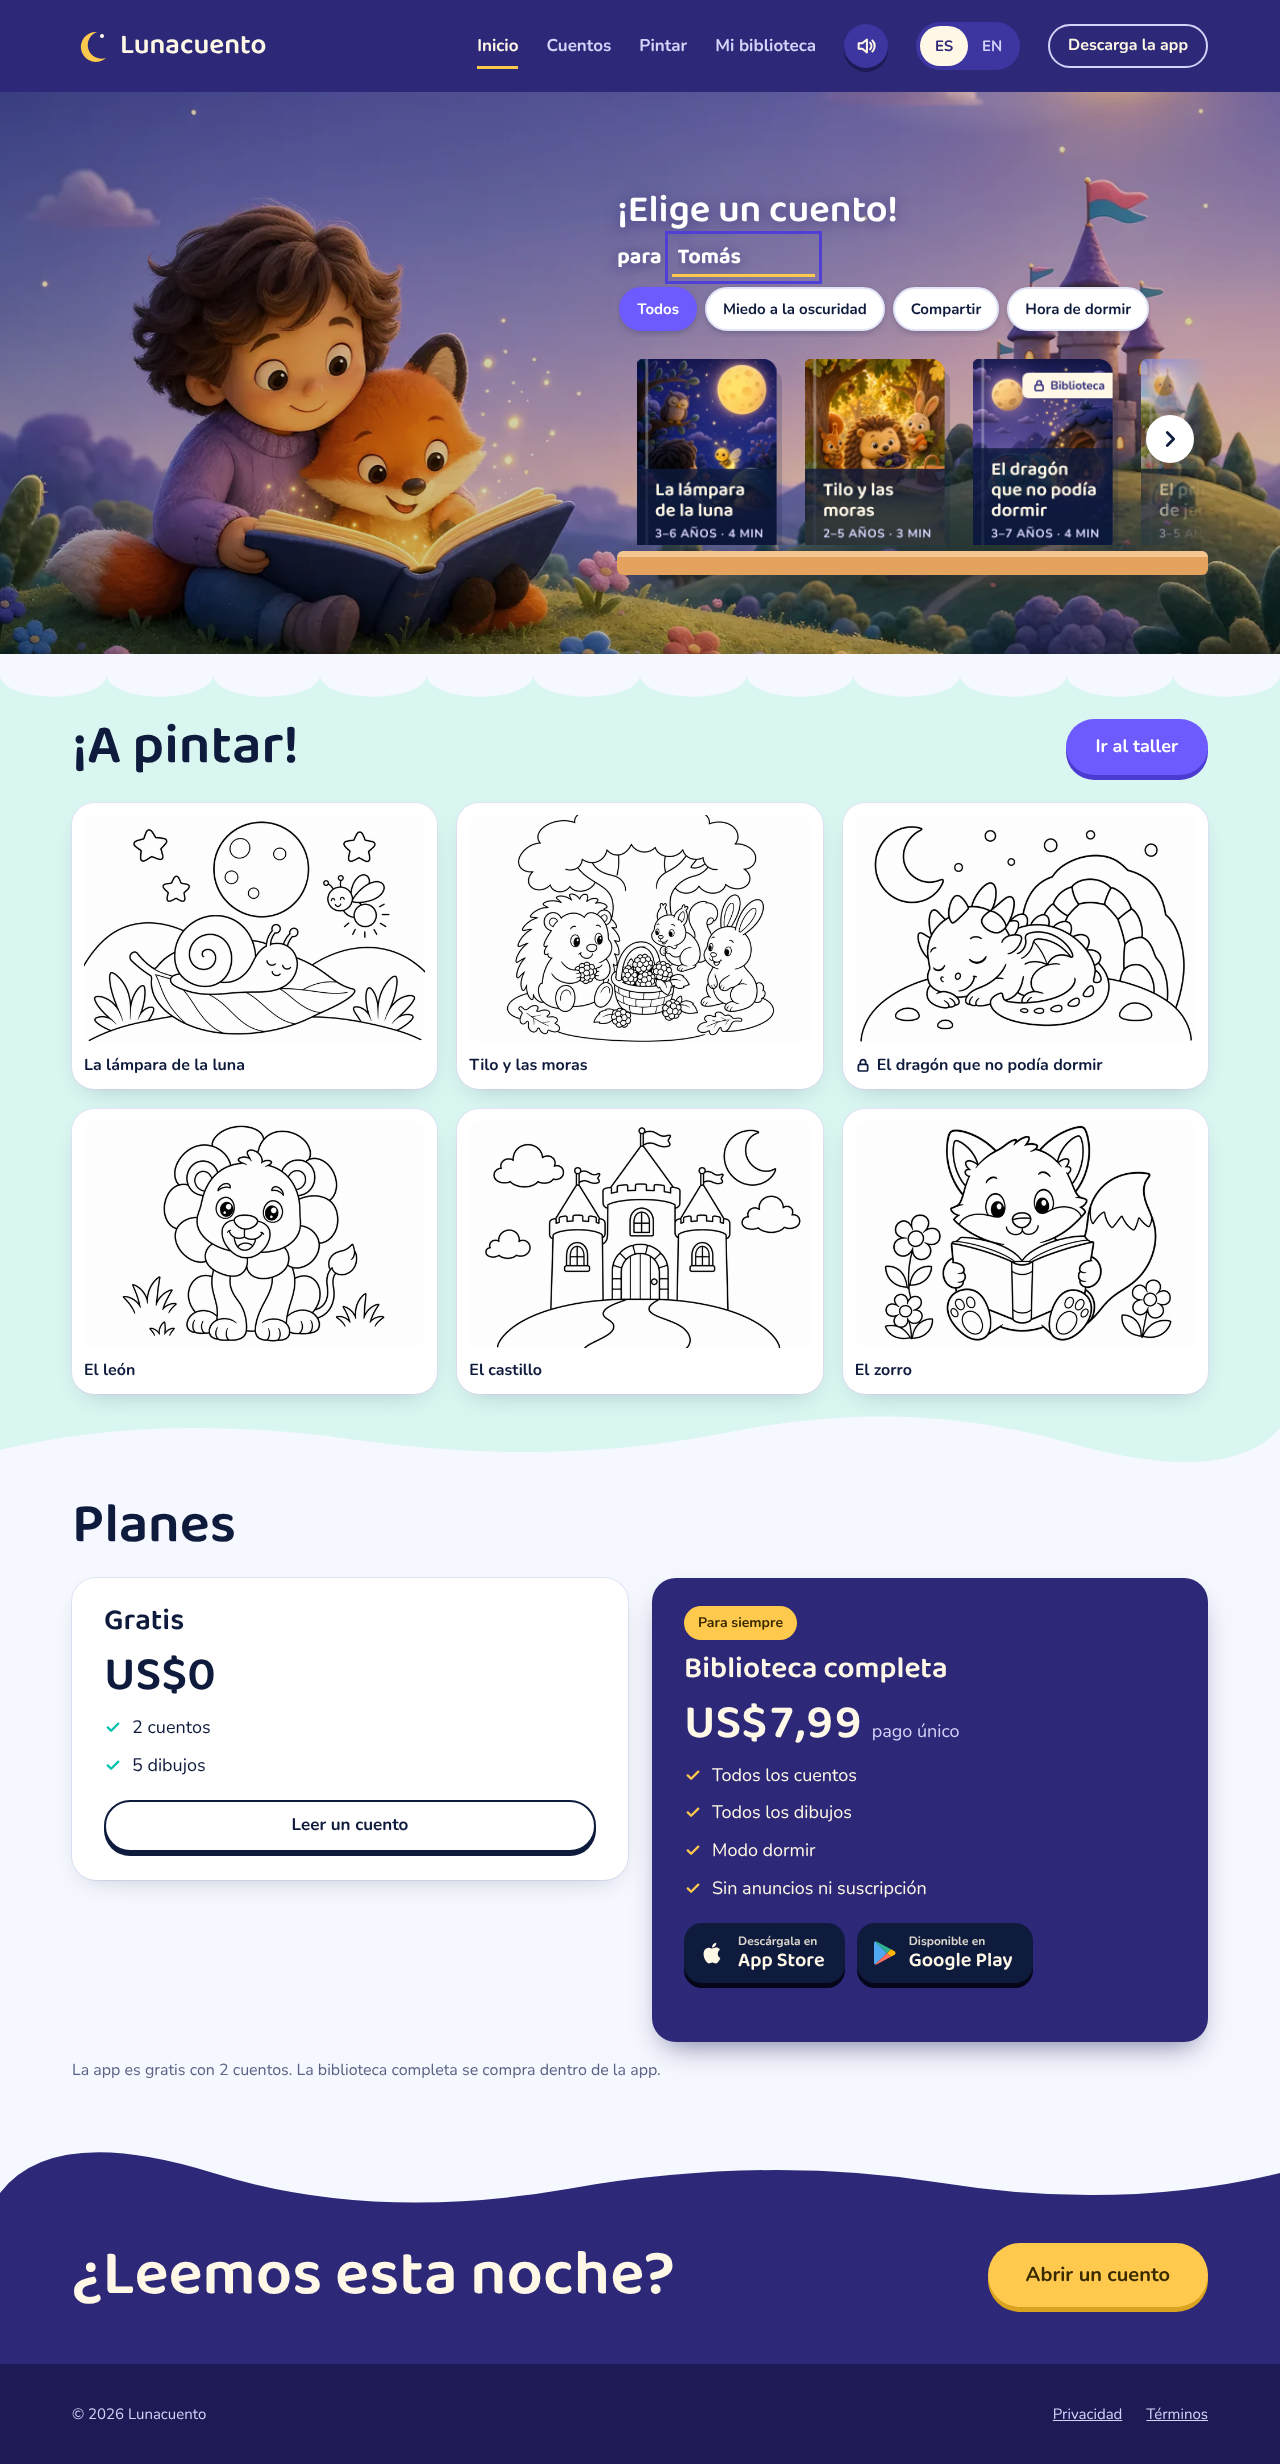
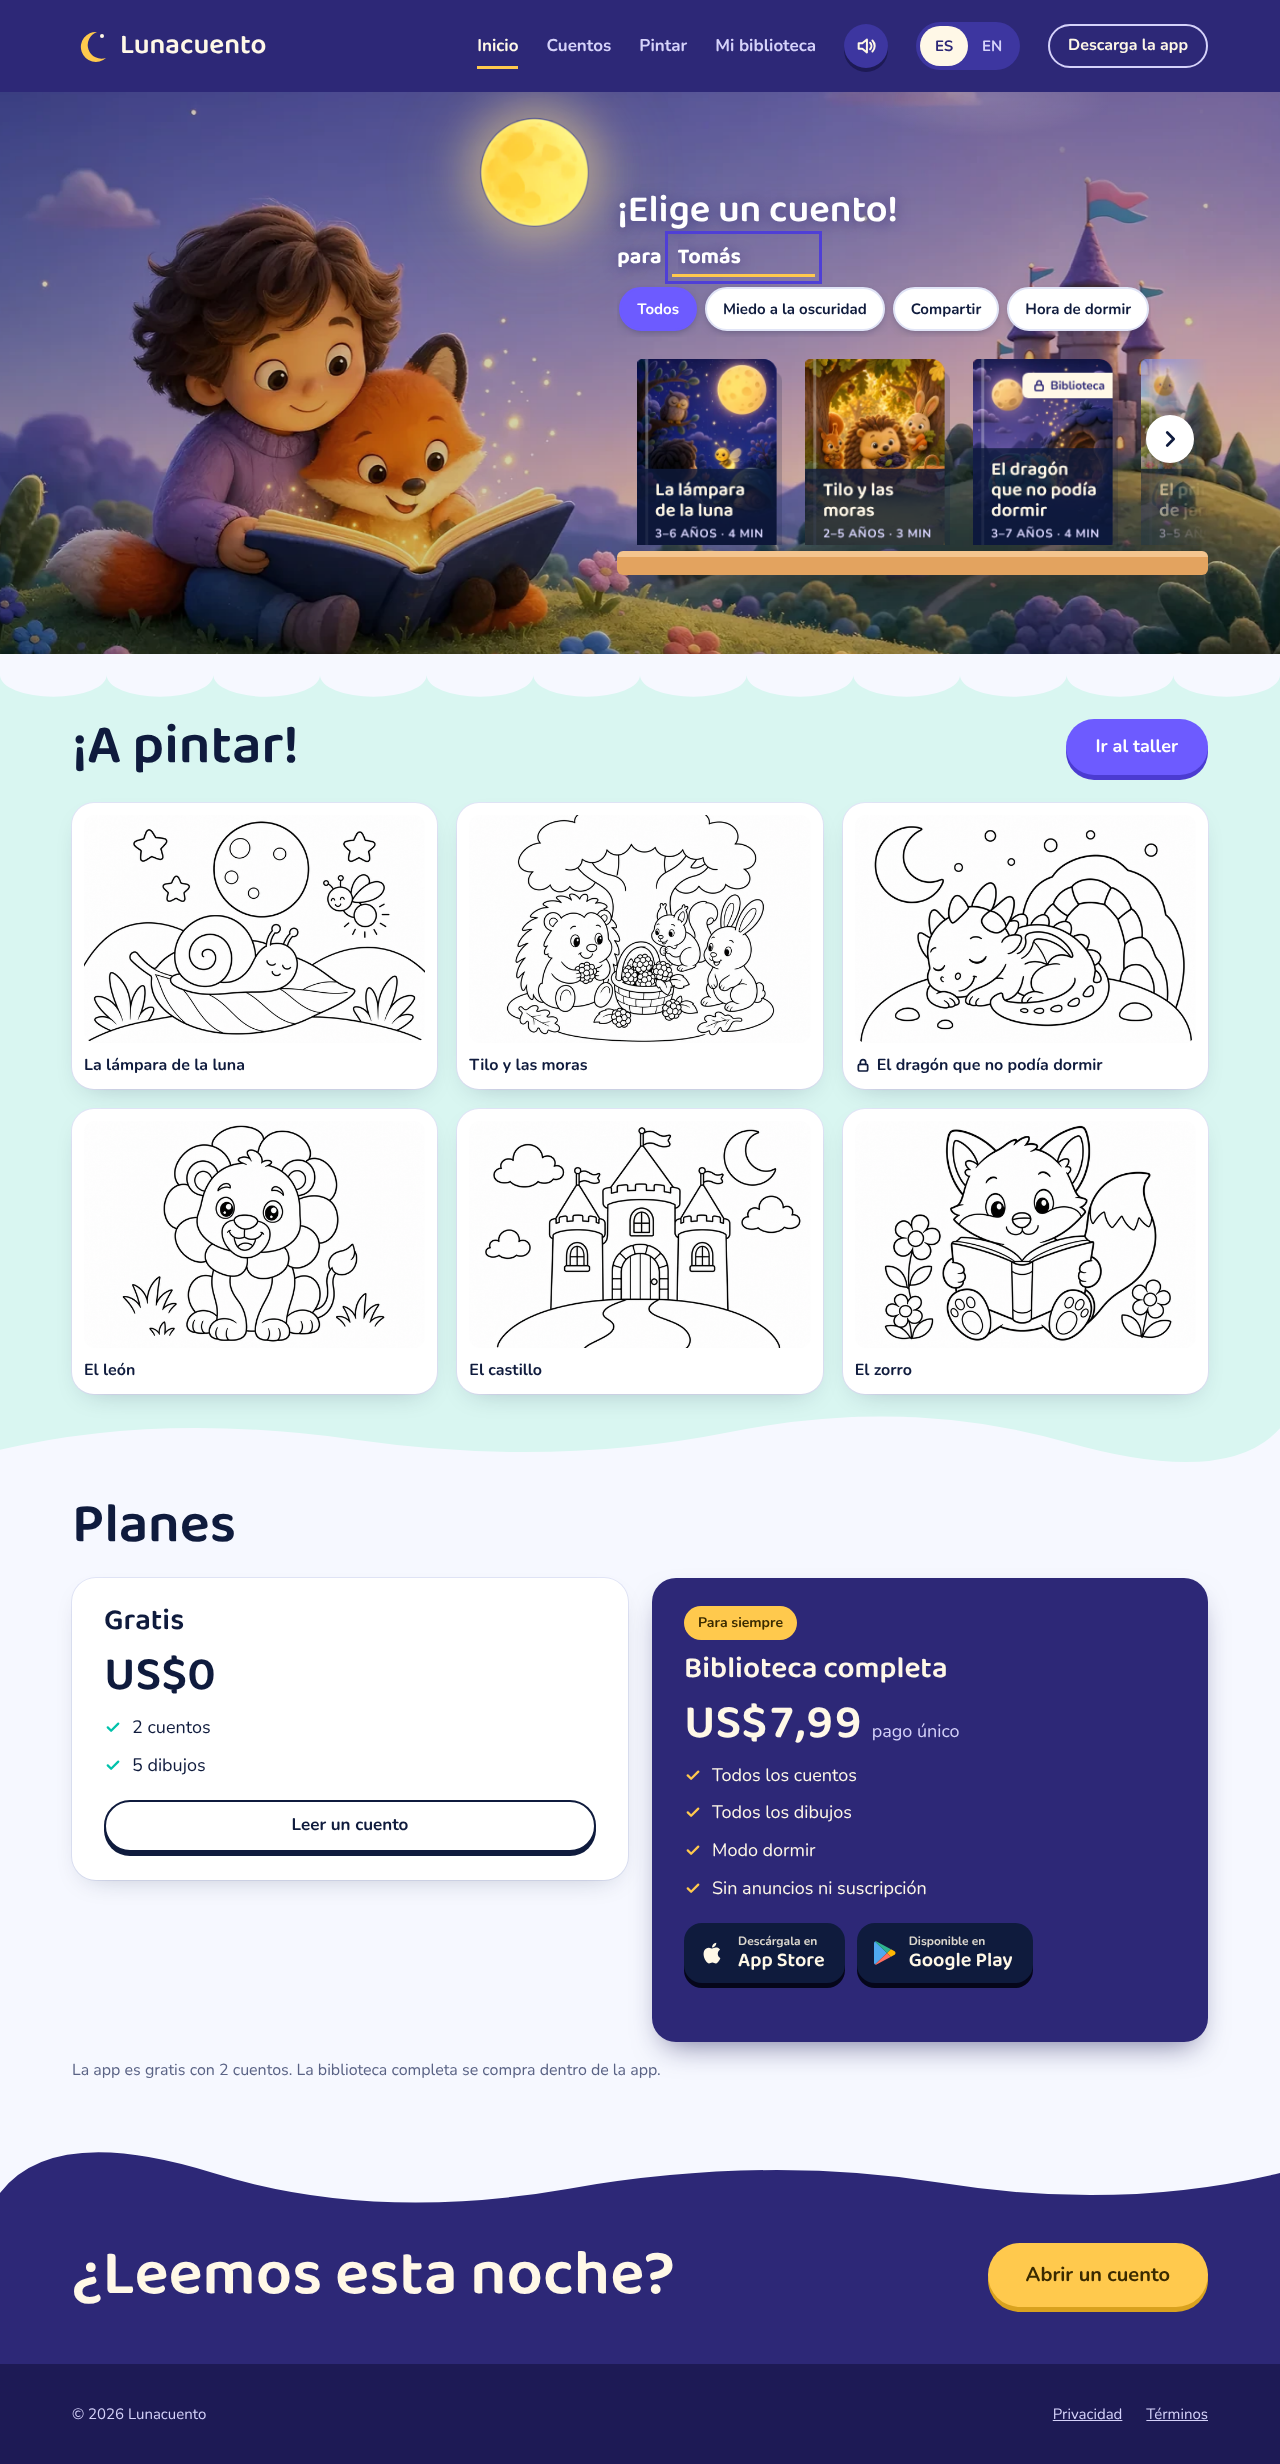
Hero: la luna pasa a ser un sprite aparte, siempre entera junto al niño y sin tapar texto ni estante
Claude-Session: https://claude.ai/code/session_01NsKeDMnxH8TrdVoQXG24KL

Changed region(s): [[0.3438, 0.0312, 0.5, 0.125], [0.8125, 0.0312, 0.9375, 0.0938]]

diff --git a/src/app/globals.css b/src/app/globals.css
@@ -211,7 +211,7 @@ a.bk:active { transform: translateY(-6px) rotate(-1deg); }
 .palette { display: grid; grid-template-columns: repeat(4, minmax(0, 1fr)); gap: 14px; justify-items: center; }
 .sw { width: 56px; height: 56px; border-radius: 50%; border: 4px solid #FFFFFF; box-shadow: 0 0 0 2px var(--line); padding: 0; transition: transform .15s var(--ease); }
 .sw:active { transform: scale(.94); }
-.sw[aria-pressed="true"] { box-shadow: 0 0 0 4px var(--ink); transform: scale(1.06); }
+.sw[aria-pressed="true"] { box-shadow: 0 0 0 4px var(--ink); transform: scale(1.1); }
 
 /* Planes */
 .plans { margin-top: 24px; display: grid; grid-template-columns: repeat(2, minmax(0, 1fr)); gap: 24px; align-items: start; }
@@ -560,17 +560,18 @@ html[data-native] input { -webkit-user-select: text; user-select: text; }
 
 /* =====================================================================
    Hero de escritorio y tablet: título, filtros y estante sobre la ilustración
-   La ilustración (3:2) cubre todo el ancho (se encuadra sin cortar la luna: o se ve entera o queda fuera del todo) (a sangre, sin fundidos ni viñeta) y se encuadra para que se vean el niño, el zorro
+   La ilustración (3:2) cubre todo el ancho (la luna es un sprite aparte, `.stage-moon`, que siempre se ve entera) (a sangre, sin fundidos ni viñeta) y se encuadra para que se vean el niño, el zorro
    y el castillo; nunca se estira. El texto y el estante empiezan en --stage-left y el bloque va centrado en vertical.
    ===================================================================== */
-.hstage { --stage-left: 48%; --stage-h: clamp(540px, 44vw, 620px); --pw: max(100cqw, calc(var(--stage-h) * 1.5)); --ph: calc(var(--pw) / 1.5); --stage-shadow: 0 2px 14px rgba(45, 40, 119, .6); position: relative; overflow: hidden; container-type: inline-size; background: #5F64B3; color: #FFFFFF; height: var(--stage-h); display: flex; }
+.hstage { --stage-left-n: .48; --stage-left: calc(var(--stage-left-n) * 100%); --stage-h: clamp(540px, 44vw, 620px); --pw: max(100cqw, calc(var(--stage-h) * 1.5)); --ph: calc(var(--pw) / 1.5); --stage-shadow: 0 2px 14px rgba(45, 40, 119, .6); position: relative; overflow: hidden; container-type: inline-size; background: #5F64B3; color: #FFFFFF; height: var(--stage-h); display: flex; }
 .stage-art { position: absolute; inset: 0; }
-.stage-pic { position: absolute; left: 50%; top: max(calc(var(--stage-h) - var(--ph)), min(calc(var(--ph) * -.27), calc((var(--ph) - var(--stage-h)) * -.8))); width: var(--pw); aspect-ratio: 3 / 2; transform: translateX(-50%); }
+.stage-pic { position: absolute; left: 50%; top: calc((var(--stage-h) - var(--ph)) * .8); width: var(--pw); aspect-ratio: 3 / 2; transform: translateX(-50%); }
 .pic-img { position: absolute; inset: 0; }
 .stage-img, .stage-fallback { width: 100%; height: 100%; object-fit: cover; display: block; transform: translate3d(calc(var(--mx, 0) * -4px), calc(var(--my, 0) * -3px), 0) scale(1.03); }
 /* Capas de parallax: cada una con su profundidad (--d) */
 .px { position: absolute; pointer-events: none; will-change: transform; transform: translate3d(calc(var(--mx, 0) * var(--d) * 14px), calc(var(--my, 0) * var(--d) * 8px + var(--sy, 0) * var(--d) * 26px), 0); }
-.px-moon { --d: .5; left: 78%; top: 3%; width: 17%; aspect-ratio: 1; border-radius: 50%; background: radial-gradient(circle, rgba(255, 224, 138, .5) 0, rgba(255, 224, 138, .18) 45%, transparent 70%); animation: moon-glow 5.5s ease-in-out infinite; }
+.stage-moon { --d: .5; left: calc(var(--gutter) + (100% - 2 * var(--gutter)) * var(--stage-left-n) - var(--moon) - 28px); top: 5%; width: var(--moon); height: var(--moon); --moon: clamp(84px, 8.5vw, 132px); border-radius: 50%; box-shadow: 0 0 40px 14px rgba(255, 224, 138, .42), 0 0 90px 30px rgba(255, 224, 138, .18); animation: moon-glow 5.5s ease-in-out infinite; }
+.stage-moon img { width: 100%; height: 100%; display: block; border-radius: 50%; filter: saturate(1.12) brightness(1.08); transform: scale(1.1); }
 .px-cloud { --d: 1.1; height: 9%; background: radial-gradient(ellipse at center, rgba(255, 240, 255, .2) 0, rgba(255, 240, 255, .08) 50%, transparent 72%); animation: cloud-drift 60s linear infinite; }
 .px-cloud.c1 { left: -12%; top: 12%; width: 22%; animation-duration: 90s; }
 .px-cloud.c2 { left: 30%; top: 5%; width: 18%; --d: .8; animation-duration: 120s; animation-delay: -40s; }
@@ -677,3 +678,6 @@ a.bk:hover::after, a.bk:focus-visible::after, a.bk:active::after { opacity: .95;
 /* Tablet: el encabezado con el botón de sonido no debe desbordar */
 @media (min-width: 761px) and (max-width: 1000px) { .site-header .bar { gap: 14px; } .navlinks { gap: 16px; font-size: 16px; } }
 
+
+/* Pantallas muy anchas: el hero recorta más alto de la imagen; se sube el encuadre para que el pelo del niño no quede cortado */
+@media (min-width: 1700px) { .stage-pic { top: calc((var(--stage-h) - var(--ph)) * .72); } }

diff --git a/src/components/HeroStage.tsx b/src/components/HeroStage.tsx
@@ -5,6 +5,7 @@ import type { Dict, Lang } from "@/lib/i18n";
 import { DEFAULT_NAME } from "@/lib/i18n";
 import { useKidName, setKidName, useRawKidName } from "@/lib/name-store";
 import { COMING_SOON, FILTERS, STORIES, VALUES, VALUES_SHORT, type ValueKey } from "@/lib/stories";
+import { ilu } from "@/lib/ilustraciones";
 import BookCard from "./BookCard";
 import IlluImg from "./IlluImg";
 import { IconNext, IconPrev } from "./icons";
@@ -33,6 +34,9 @@ const SPARKLES: [number, number, number, number][] = [
  * La ilustración vive en una caja centrada de proporción 3:2 y alto fijo (nunca se estira: a la izquierda y a la derecha el cielo
  * continúa con el color de los bordes). Capas de parallax suave (luna, nubes, destellos) con el mouse y el scroll.
  */
+/** La luna es un sprite aparte (luna-hero) para colocarla por CSS, siempre entera y sin tapar al niño ni al texto. */
+const moon = ilu("hero-inicio") ? ilu("luna-hero") : undefined;
+
 export default function HeroStage({ lang, t }: { lang: Lang; t: Dict }) {
   const raw = useRawKidName();
   const name = useKidName(DEFAULT_NAME[lang]);
@@ -96,7 +100,6 @@ export default function HeroStage({ lang, t }: { lang: Lang; t: Dict }) {
           <div className="pic-img">
             <IlluImg name="hero-inicio" sizes="100vw" className="stage-img" fallback={<HeroFallback />} />
           </div>
-          <span className="px px-moon" />
           <span className="px px-cloud c1" />
           <span className="px px-cloud c2" />
           <span className="px px-cloud c3" />
@@ -108,6 +111,12 @@ export default function HeroStage({ lang, t }: { lang: Lang; t: Dict }) {
         </div>
       </div>
       <div className="wrap stage-body">
+        {moon ? (
+          <span className="px stage-moon" aria-hidden="true">
+            {/* eslint-disable-next-line @next/next/no-img-element */}
+            <img src={moon.src} width={moon.width} height={moon.height} alt="" decoding="async" />
+          </span>
+        ) : null}
         <div className="stage-head">
           <h1 id="stage-title">{t.shelf.title}</h1>
           <label className="stage-for" htmlFor="kid-name">

diff --git a/scripts/quitar-luna-hero.py b/scripts/quitar-luna-hero.py
@@ -1,0 +1,85 @@
+#!/usr/bin/env python3
+"""Separa la luna del hero: recorta el disco como sprite (luna-hero.webp) y rellena el cielo donde estaba en
+hero-inicio-*.webp. Así la luna se coloca por CSS (siempre entera, junto al niño) y no depende del recorte de la
+imagen. Operación de una sola vez (sin IA, sin costo): si ya no hay luna en la imagen, no hace nada.
+Uso: python3 scripts/quitar-luna-hero.py"""
+import json, sys
+import numpy as np
+from PIL import Image, ImageDraw, ImageFilter
+
+DIR = "public/ilustraciones"
+SIZES = [768, 1152, 1536, 2304, 3072]
+
+def detect(path):
+    a = np.array(Image.open(path).convert("RGB")).astype(int)
+    H, W, _ = a.shape
+    m = (a[:, :, 0] > 225) & (a[:, :, 1] > 185) & (a[:, :, 2] < 175)
+    m[:, : int(W * 0.7)] = False
+    m[int(H * 0.4):, :] = False
+    ys, xs = np.where(m)
+    if len(xs) < 2000:
+        return None
+    # disco: percentiles para ignorar el borde brillante suelto
+    x0, x1 = np.percentile(xs, [0.5, 99.5]); y0, y1 = np.percentile(ys, [0.5, 99.5])
+    return ((x0 + x1) / 2 / W, (y0 + y1) / 2 / H, (x1 - x0 + y1 - y0) / 4 / W)  # cx, cy (fracción), radio (fracción del ancho)
+
+geo = detect(f"{DIR}/hero-inicio-1536.webp")
+if not geo:
+    print("No se detecta la luna en el hero (ya fue separada). Nada que hacer."); sys.exit(0)
+fx, fy, fr = (float(v) for v in geo)
+print("luna: centro %.3f,%.3f radio %.3f del ancho" % geo)
+
+# 1) sprite desde la variante más grande
+big = Image.open(f"{DIR}/hero-inicio-3072.webp").convert("RGB")
+W, H = big.size
+cx, cy, R = fx * W, fy * H, fr * W
+pad = R * 1.04
+box = (int(cx - pad), int(cy - pad), int(cx + pad), int(cy + pad))
+sp = big.crop(box).convert("RGBA")
+S = sp.size[0]
+mask = Image.new("L", (S * 4, S * 4), 0)
+ImageDraw.Draw(mask).ellipse((S * 4 * 0.055, S * 4 * 0.055, S * 4 * 0.945, S * 4 * 0.945), fill=255)
+mask = mask.resize((S, S), Image.LANCZOS).filter(ImageFilter.GaussianBlur(1.2))
+sp.putalpha(mask)
+sp = sp.resize((480, 480), Image.LANCZOS)
+sp.save(f"{DIR}/luna-hero.webp", quality=90, method=6)
+
+# 2) rellenar el cielo en cada variante: modelo suave del cielo (polinomio cúbico en x, y por canal) ajustado a un anillo
+#    alrededor de la luna (descartando estrellas, nubes y la bandera como valores atípicos) y mezcla con borde suave
+def terms(x, y):
+    return np.stack([x ** i * y ** j for i in range(4) for j in range(4 - i)], axis=1)
+
+for w in SIZES:
+    p = f"{DIR}/hero-inicio-{w}.webp"
+    im = Image.open(p).convert("RGB"); a = np.array(im).astype(float); h_, w_, _ = a.shape
+    cx, cy, R = fx * w_, fy * h_, fr * w_
+    r_fill, r_in, r_out = R * 2.15, R * 2.3, R * 2.9
+    yy, xx = np.mgrid[0:h_, 0:w_]
+    d = np.hypot(xx - cx, yy - cy)
+    ring = (d > r_in) & (d < r_out) & (yy < h_ * 0.34)
+    X = terms((xx[ring] - cx) / R, (yy[ring] - cy) / R)
+    keep = np.ones(X.shape[0], bool)
+    coef = None
+    for _ in range(4):
+        coef = [np.linalg.lstsq(X[keep], a[ring][:, c][keep], rcond=None)[0] for c in range(3)]
+        res = np.abs(np.stack([X @ coef[c] - a[ring][:, c] for c in range(3)], 1)).max(1)
+        keep = res < max(6.0, np.percentile(res[keep], 90) * 1.6)
+    zone = d < r_fill + R * 0.5
+    bx0, bx1 = int(max(0, cx - r_fill - R)), int(min(w_, cx + r_fill + R))
+    by0, by1 = int(max(0, cy - r_fill - R)), int(min(h_, cy + r_fill + R))
+    sx, sy = xx[by0:by1, bx0:bx1], yy[by0:by1, bx0:bx1]
+    T = terms((sx.ravel() - cx) / R, (sy.ravel() - cy) / R)
+    fillv = np.stack([(T @ coef[c]).reshape(sx.shape) for c in range(3)], 2)
+    m = Image.new("L", (w_, h_), 0)
+    ImageDraw.Draw(m).ellipse((cx - r_fill, cy - r_fill, cx + r_fill, cy + r_fill), fill=255)
+    m = np.array(m.filter(ImageFilter.GaussianBlur(float(R * 0.35)))).astype(float)[by0:by1, bx0:bx1, None] / 255
+    a[by0:by1, bx0:bx1] = a[by0:by1, bx0:bx1] * (1 - m) + fillv * m
+    Image.fromarray(np.clip(a, 0, 255).astype("uint8")).save(p, quality=90, method=6)
+    print("relleno", p, "(%d px de ajuste)" % int(keep.sum()))
+
+mp = f"{DIR}/manifest.json"
+man = json.load(open(mp))
+man["luna-hero"] = {"src": "/ilustraciones/luna-hero.webp", "width": 480, "height": 480}
+json.dump(man, open(mp, "w"), indent=2, ensure_ascii=False)
+open(mp, "a").write("\n")
+print("listo")

diff --git a/docs/ampliar-ilustraciones.md b/docs/ampliar-ilustraciones.md
@@ -70,3 +70,6 @@ Ampliar de verdad (hero hasta 3072 px + portadas):
 ```bash
 node scripts/ampliar-ilustraciones.mjs --bin /Applications/Upscayl.app/Contents/Resources/bin/upscayl-bin --modelos /Applications/Upscayl.app/Contents/Resources/models --modelo digital-art-4x
 ```
+
+## Nota: la luna del hero es un sprite aparte
+`scripts/quitar-luna-hero.py` (una sola vez, sin IA ni costo) recortó la luna a `public/ilustraciones/luna-hero.webp` y rellenó el cielo en `hero-inicio-*.webp`. La luna se coloca por CSS (`.stage-moon`) para que siempre se vea entera junto al niño. Si regeneras el hero con OpenAI, vuelve a correr ese script sobre la imagen nueva (detecta la luna y repite el proceso); el ampliador toma `hero-inicio-1536.webp` ya sin luna.
